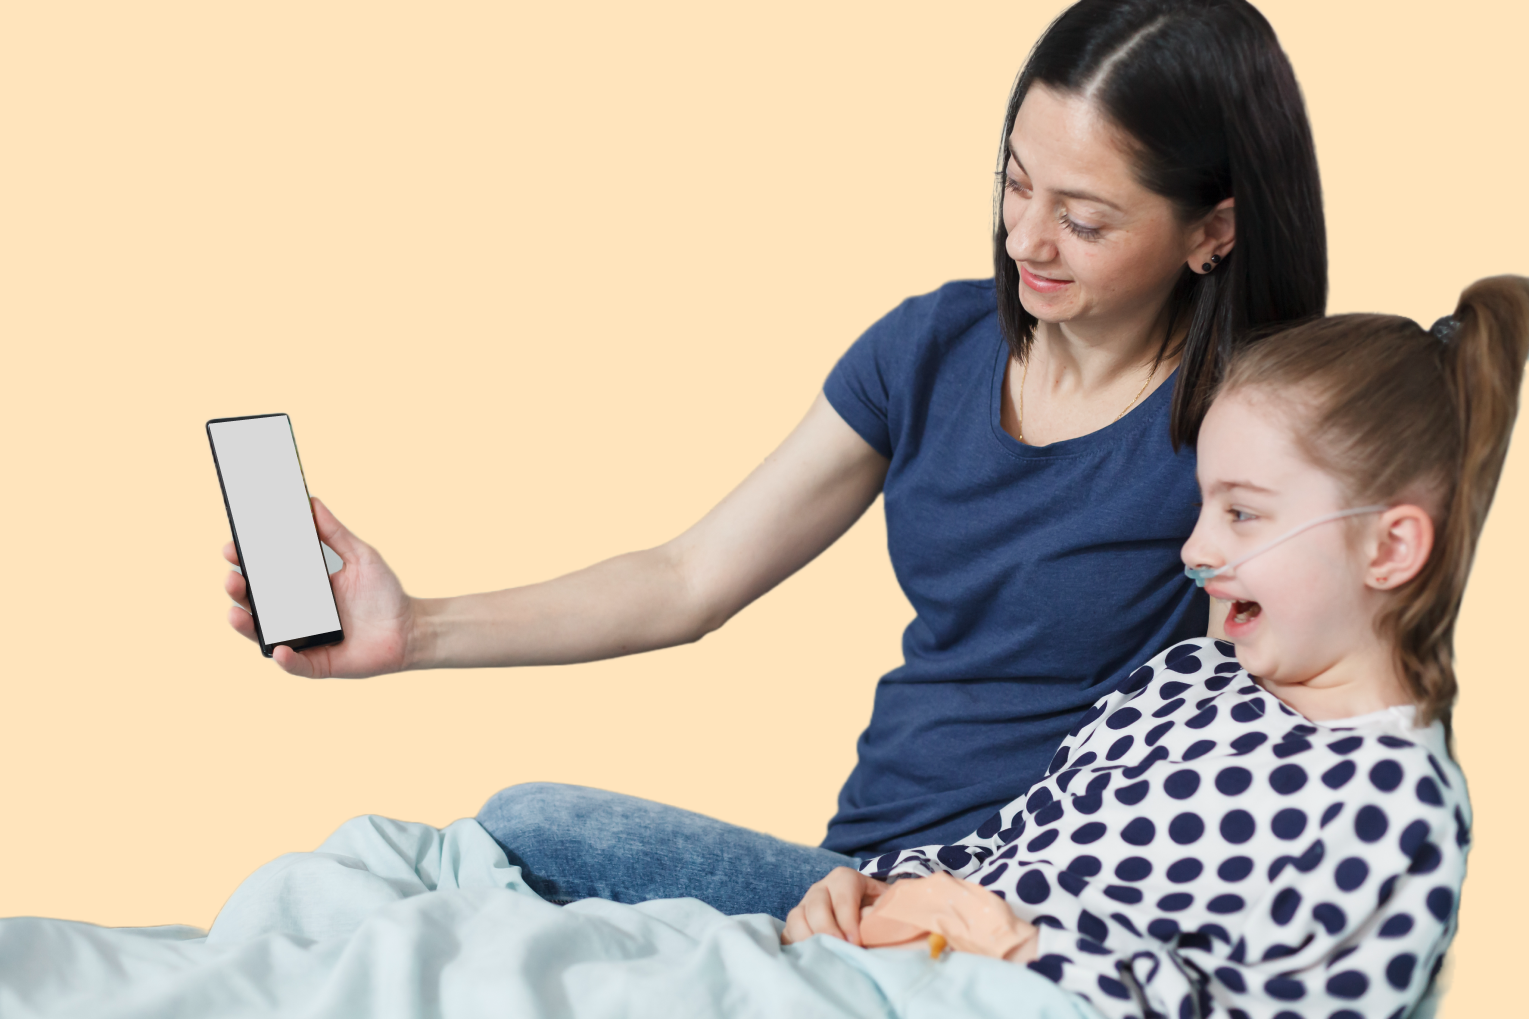
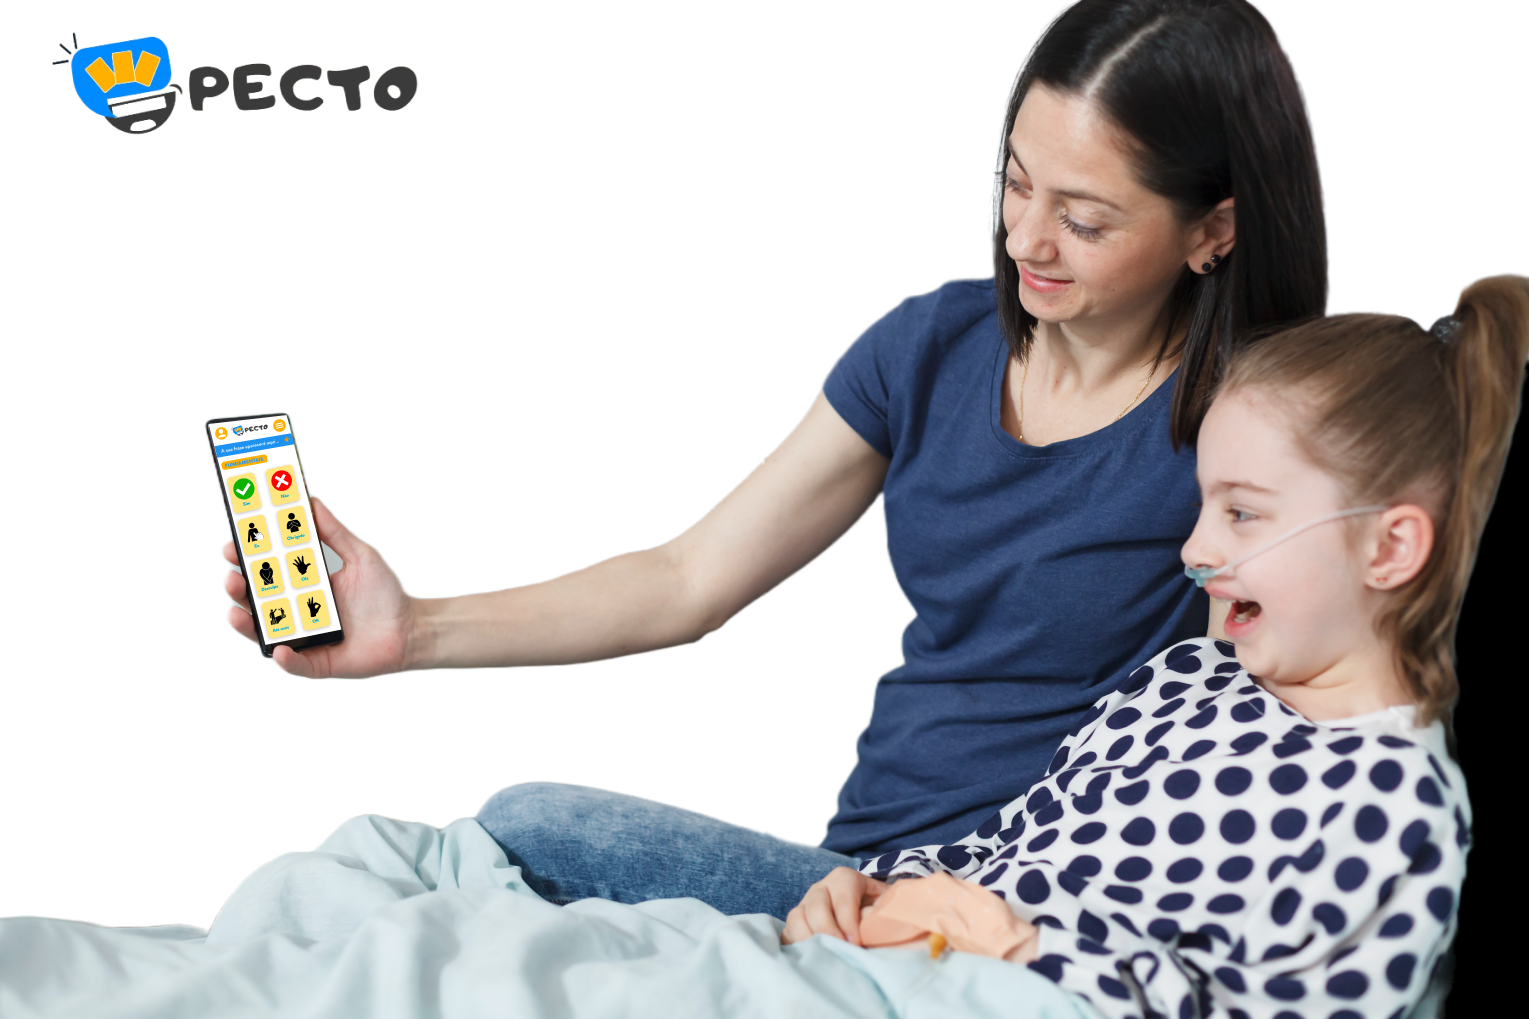
Alteração da imagem na Home, e inserção do Carrossel da home - não finalizado

diff --git a/src/Pages/Home/Depoimentos.jsx b/src/Pages/Home/Depoimentos.jsx
@@ -1,29 +1,40 @@
 import style from './Depoimentos.module.css';
 
-import React from 'react';
+import React, { useState } from 'react';
 
 import eleanor from '../../Images/eleanor_teste.jpg';
 import seta_esquerda from '../../Images/Seta esquerda.png';
 import seta_direita from '../../Images/Seta direita.png';
 
 function Depoimentos() {
+    const [posicao, setPosicao] = useState(0);
+
+    const handleClickLeft = () => {
+        setPosicao(posicao - 1);
+    }
+
+    const handleClickRight = () => {
+        setPosicao(posicao + 1);
+    }
+
+
     return (
         <section id={style.depoimentos}>
             <h1>Depoimentos</h1>
             <div id={style.box}>
-                <div id={style.button_left}>
+                <div id={style.button_left} onClick={handleClickLeft}>
                     <img src={seta_esquerda} alt="clique para ver o depoimento à esquerda" />
                 </div>
-                <div id={style.image_name}>
+                <div id={style.image_name} style={{ transform: `translateX(${posicao * 100}%)`}}>
                     <div>
                         <img src={eleanor} alt="eleanor" />
                         <h3>Eleanor Marques</h3>
                     </div>
                 </div>
-                <div id={style.text}>
+                <div id={style.text} style={{ transform: `translateX(-${posicao * 100}%)`}}>
                     <p>Excelente! Graças ao Pecto, a minha filha, que tem dificuldades para falar, está conseguindo interagir-se melhor com outras pessoas! Estou bastante feliz por ela.</p>
                 </div>
-                <div id={style.button_right}>
+                <div id={style.button_right} onClick={handleClickRight}>
                     <img src={seta_direita} alt="clique para ver o depoimento à direita" />
                 </div>
             </div>
